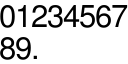
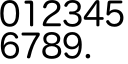
Update Big numbers font to 21px wide. Change main CPM screen to CPM only, and start on multiple screens for CPM -> uSv/h -> Graph -> etc..

diff --git a/firmware/display/nfont.cpp b/firmware/display/nfont.cpp
@@ -26,8 +26,10 @@ extern uint8_t _binary___binary_data_bignumbers_data_size;
 
 uint16_t get_bigpixel(char c,int c_x,int c_y) {
 
-  int ypos = (c/(128/16)) * 32;
-  int xpos = (c%(128/16)) * 16;
+	// Get Y and X offset for this character
+	// Big numbers are 21 pixels wide, and 32 high
+  int ypos = (c/(128/21)) * 32;
+  int xpos = (c%(128/21)) * 21;
 //  ypos+=1;
 
   int bitposition = ((ypos*128)+(c_y*128) + (xpos)+c_x) *2;
@@ -135,12 +137,12 @@ void draw_character(uint32_t x,uint32_t y,char c,uint16_t background) {
 
 void draw_bigcharacter(int x,int y,char c,uint16_t background) {
 
-  uint16_t character_data[16*32];
-  for(int n=0;n<(16*32);n++) character_data[n]=background^65535;
+  uint16_t character_data[21*32];
+  for(int n=0;n<(21*32);n++) character_data[n]=background^65535;
 
   if(((c >= 'a')&&(c <= 'z')) ||
      ((c >= 'A')&&(c <= 'Z'))) {
-    oled_draw_rect(x,y,16,32,(uint8_t *) character_data);
+    oled_draw_rect(x,y,21,32,(uint8_t *) character_data);
     draw_character(x,y,c,background);
     return;
   }
@@ -150,7 +152,7 @@ void draw_bigcharacter(int x,int y,char c,uint16_t background) {
 
   if(c != ' ')
   for(size_t c_y=0;c_y<32;c_y++) {
-    for(size_t c_x=0;c_x<16;c_x++) {
+    for(size_t c_x=0;c_x<21;c_x++) {
       int32_t px = get_bigpixel(c,c_x,c_y);
       int32_t value;
       if(px == 65535) {
@@ -167,14 +169,18 @@ void draw_bigcharacter(int x,int y,char c,uint16_t background) {
       if(background == 65535) value = background ^ get_bigpixel(c,c_x,c_y);
       if(background ==     0) value = get_bigpixel(c,c_x,c_y);
 
-      character_data[(c_y*16)+c_x] = value;
+      character_data[(c_y*21)+c_x] = value;
     }
   }
 
-  oled_draw_rect(x,y,16,32,(uint8_t *) character_data);
+  oled_draw_rect(x,y,21,32,(uint8_t *) character_data);
 }
 
 
+/**
+ * Draw one character in tiny font.
+ * background: if zero: background is white (?) and 65535 is black.
+ */
 void draw_tinycharacter(int x,int y,char c,uint16_t background) {
 
   uint16_t character_data[5*5];
@@ -232,10 +238,13 @@ void draw_bigtext(int x,int y,const char *text,uint16_t background) {
   int c_y = y;
   for(size_t n=0;n<length;n++) {
     draw_bigcharacter(c_x,c_y,text[n],background);
-    c_x+=16;
+    c_x+=21;
   }
 }
 
+/**
+ * Draw a text in tiny font.
+ */
 void draw_tinytext(int x,int y,const char *text,uint16_t background) {
 
   uint32_t length = strlen(text);

diff --git a/firmware/gui/screen_layout.cpp b/firmware/gui/screen_layout.cpp
@@ -25,29 +25,29 @@ __FLASH__ screen screens_layout[SCREEN_COUNT] = {
 
 // Screen 0 - main screen
 {
- 7,
+ 4,
  {
    { ITEM_TYPE_HEAD       , 0, 0, "CPMDEADINT"      , 255},
    { ITEM_TYPE_MENU       , 1, 1, "Current Readings", 4  },
    { ITEM_TYPE_MENU       , 2, 2, "Advanced"        , 30 },
    { ITEM_TYPE_MENU       , 3, 3, "Settings"        , 0  },
-   { ITEM_TYPE_SOFTKEY	  , 0, 0, "Soft1"			, 0	 },
-   { ITEM_TYPE_SOFTKEY	  , 1, 0, "Soft2"			, 0	 },
-   { ITEM_TYPE_SOFTKEY	  , 2, 0, "Soft3"			, 0	 },
  }
  ,7
 },
 
 // Screen 1 - Current readings screen
 {
-  5,
+  6,
   {
     { ITEM_TYPE_HEAD        , 0 ,  0, "CPMDEADINT", 255},
-    { ITEM_TYPE_BIGVARLABEL , 0 , 26, "CPMDEAD"   , 255},
-    { ITEM_TYPE_VARLABEL    ,104, 60, "CPMSLABEL" , 255},
-    { ITEM_TYPE_BIGVARLABEL , 0 , 73, "SVREM"     , 255},
-    { ITEM_TYPE_VARLABEL    , 80,104, "SVREMLABEL", 255},
-  }
+    { ITEM_TYPE_BIGVARLABEL , 0 , 30, "CPMDEAD"   , 255},
+    { ITEM_TYPE_VARLABEL    ,104, 90, "CPMSLABEL" , 255},
+//    { ITEM_TYPE_BIGVARLABEL , 0 , 67, "SVREM"     , 255},
+//    { ITEM_TYPE_VARLABEL    , 80, 98, "SVREMLABEL", 255},
+    { ITEM_TYPE_SOFTKEY	  , 0, 0, "Home"			, 255},
+    { ITEM_TYPE_SOFTKEY	  , 1, 26, "\x80Sv/h"			, 255},
+    { ITEM_TYPE_SOFTKEY	  , 2, 0, "Beep"			, 255},
+}
   ,0
 },
 
@@ -382,6 +382,23 @@ __FLASH__ screen screens_layout[SCREEN_COUNT] = {
   }
   ,7
 },
+
+// Screen 26 - Micro Sievert readings screen
+{
+  6,
+  {
+    { ITEM_TYPE_HEAD        , 0 ,  0, "CPMDEADINT", 255},
+//    { ITEM_TYPE_BIGVARLABEL , 0 , 30, "CPMDEAD"   , 255},
+//    { ITEM_TYPE_VARLABEL    ,104, 90, "CPMSLABEL" , 255},
+    { ITEM_TYPE_BIGVARLABEL , 0 , 30, "SVREM"     , 255},
+    { ITEM_TYPE_VARLABEL    , 80, 80, "SVREMLABEL", 255},
+    { ITEM_TYPE_SOFTKEY	  , 0, 0, "Home"			, 255},
+    { ITEM_TYPE_SOFTKEY	  , 1, 0, "Graph"			, 255},
+    { ITEM_TYPE_SOFTKEY	  , 2, 0, "Beep"			, 255},
+}
+  ,0
+},
+
 
 };
 

diff --git a/firmware/gui/GUI.cpp b/firmware/gui/GUI.cpp
@@ -345,8 +345,8 @@ void render_softkey(screen_item &item, bool selected) {
 		x1 = 86;
 		x2 = 127;
 	}
-	display_draw_rectangle(x1, 114, x2, 127, header_color );
-    draw_text(x1+2, 110, item.text, header_color);
+	display_draw_rectangle(x1, 109, x2, 127, header_color );
+    draw_text(x1+1, 110, item.text, header_color);
 
 }
 
@@ -498,6 +498,33 @@ void clear_item_head(screen_item &item, bool selected) {
   display_draw_rectangle(item.val1,item.val2,x_max,y_max,BACKGROUND_COLOR);
 }
 
+
+/**
+ * Render a soft key.
+ * item.val1: 0 to 2 (soft key number)
+ * item.val2: unused
+ * item.text: label (5 char max)
+ */
+void clear_softkey(screen_item &item, bool selected) {
+
+	// Truncate the label to 5 characters
+	if (item.val1 > 2) return;
+	uint8_t x1 = 0;
+	uint8_t x2 = 0;
+	if (item.val1 == 0) {
+		x2 = 41;
+	} else if (item.val1 == 1) {
+		x1 = 43;
+		x2 = 84;
+	} else {
+		x1 = 86;
+		x2 = 127;
+	}
+	display_draw_rectangle(x1, 109, x2, 127, BACKGROUND_COLOR );
+
+}
+
+
 void clear_item_bigvarlabel(screen_item &item, bool selected) {
   int32_t text_len = strlen(item.text);
 
@@ -565,6 +592,9 @@ void clear_item(screen_item &item,bool selected) {
   } else
   if(item.type == ITEM_TYPE_LABEL) {
     clear_item_label(item,selected);
+  } else
+  if(item.type == ITEM_TYPE_SOFTKEY) {
+		clear_softkey(item,selected);
   } else
   if(item.type == ITEM_TYPE_SMALLLABEL) {
     clear_item_label(item,selected);

diff --git a/firmware/controller/Controller.cpp b/firmware/controller/Controller.cpp
@@ -1011,8 +1011,8 @@ void Controller::send_cpm_values() {
 
 	if (!m_cpm_cps_switch) {       // no auto switch, just display CPM
 		char text_cpmd_tmp[30];
-		sprintf(text_cpmd_tmp, "%8.0f", cpm); // No need for decimals on CPM!
-		sprintf(text_cpmd, "%8.8s", text_cpmd_tmp);
+		sprintf(text_cpmd_tmp, "%6.0f", cpm); // No need for decimals on CPM!
+		sprintf(text_cpmd, "%6.6s", text_cpmd_tmp);
 		m_gui->receive_update("CPMSLABEL", "CPM");
 	} else {
 
@@ -1025,14 +1025,14 @@ void Controller::send_cpm_values() {
 
 		if (m_current_units == UNITS_CPM) {
 			char text_cpmd_tmp[30];
-			sprintf(text_cpmd_tmp, "%8.0f", cpm);
-			sprintf(text_cpmd, "%8.8s", text_cpmd_tmp);
+			sprintf(text_cpmd_tmp, "%6.0f", cpm);
+			sprintf(text_cpmd, "%6.6s", text_cpmd_tmp);
 			m_gui->receive_update("CPMSLABEL", "CPM");
 		} else {
 			char text_cpmd_tmp[30];
-			sprintf(text_cpmd_tmp, "%8.0f",
+			sprintf(text_cpmd_tmp, "%6.0f",
 					cpm / 60);
-			sprintf(text_cpmd, "%8.8s", text_cpmd_tmp);
+			sprintf(text_cpmd, "%6.6s", text_cpmd_tmp);
 			m_gui->receive_update("CPMSLABEL", "CPS");
 		}
 	}

diff --git a/firmware/gui/screen_layout.h b/firmware/gui/screen_layout.h
@@ -5,7 +5,7 @@
 #include <stdint.h>
 
 #define TEXT_LENGTH 25
-#define SCREEN_COUNT 26
+#define SCREEN_COUNT 27
 
 
 // The constants below are the type of items that can be drawn
